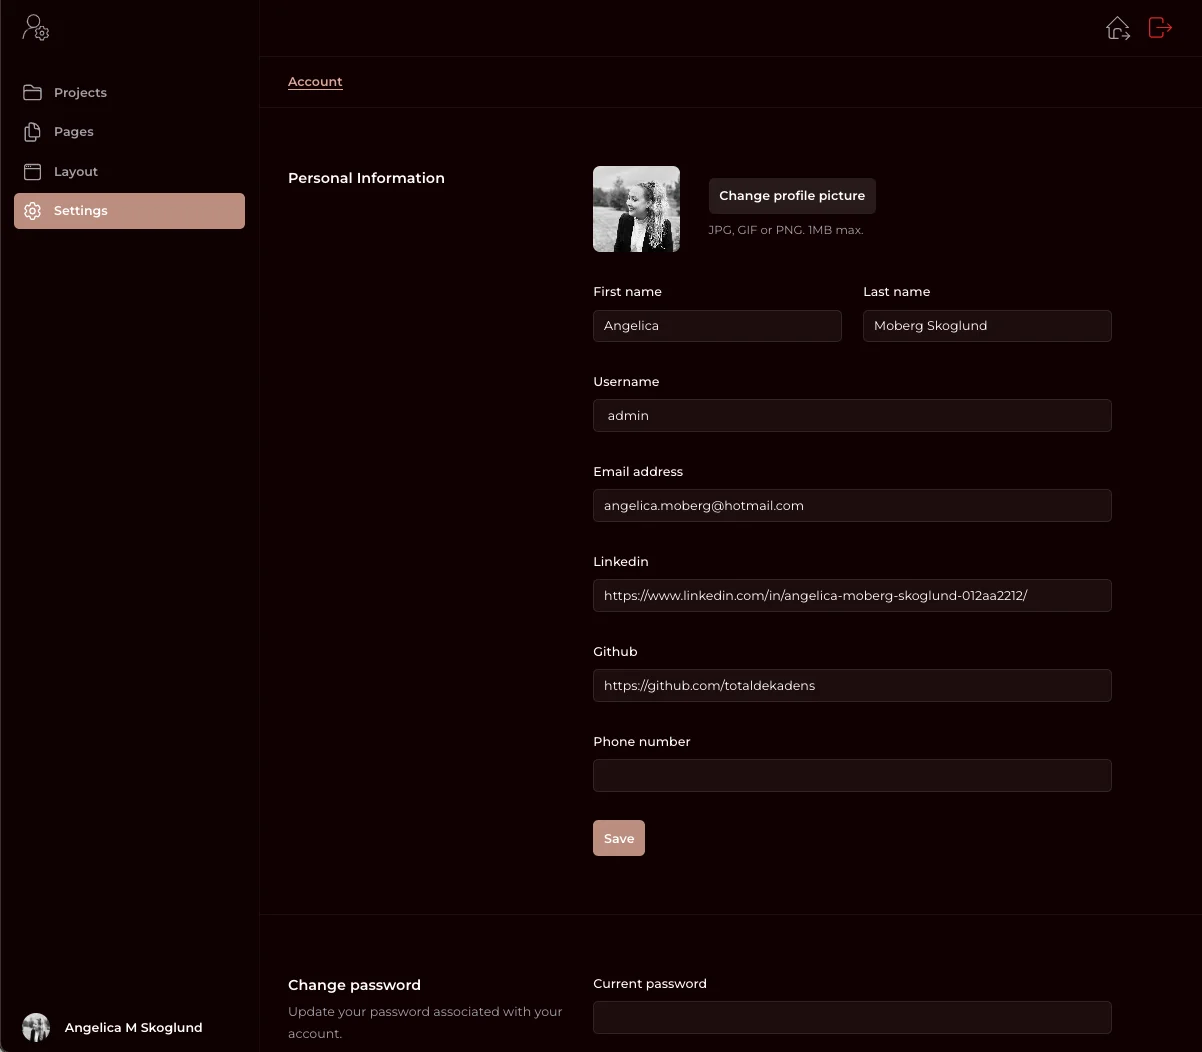
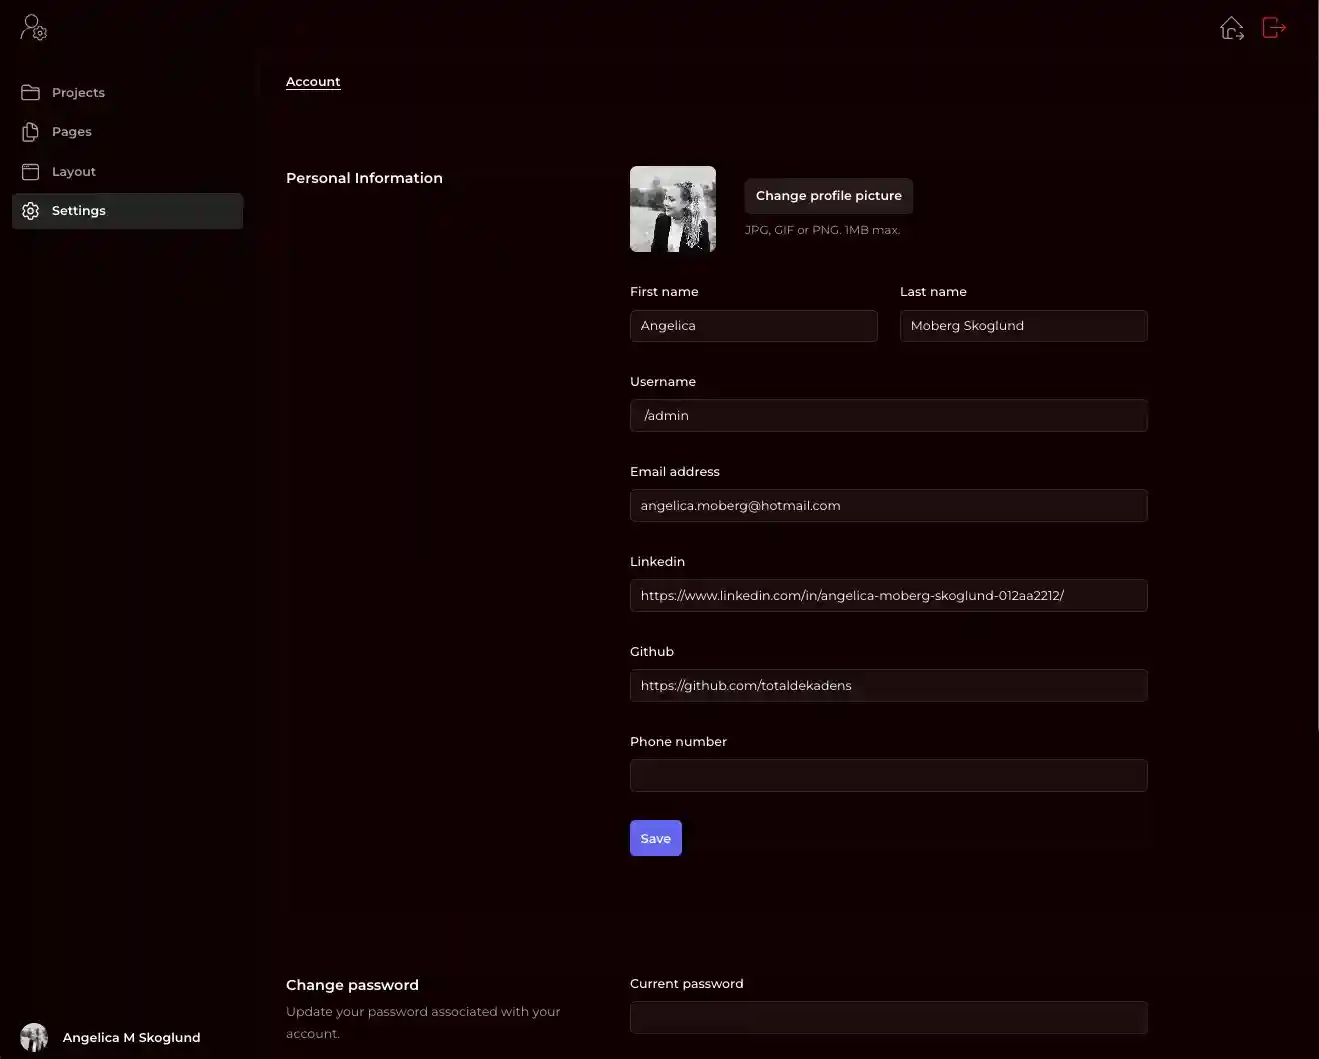
Button fix

diff --git a/src/components/Admin/Settings/Account.tsx b/src/components/Admin/Settings/Account.tsx
@@ -1,4 +1,6 @@
 import { useSession } from 'next-auth/react'
+import React from 'react'
+import Button from '@/components/Buttons/Button'
 
 const Account = () => {
   const { data: session } = useSession()
@@ -25,12 +27,7 @@ const Account = () => {
                 className="h-24 w-24 flex-none rounded-lg bg-gray-800 object-cover"
               />
               <div>
-                <button
-                  type="button"
-                  className="bg-light-300/60 dark:text-light-50 text-dark-100 hover:bg-light-300/80 rounded-md px-3 py-2 text-sm font-semibold shadow-sm dark:bg-white/10 dark:hover:bg-white/20 "
-                >
-                  Change profile picture
-                </button>
+                <Button variant="modest" title="Change profile picture" />
                 <p className="mt-2 text-xs leading-5 text-gray-400">
                   JPG, GIF or PNG. 1MB max.
                 </p>
@@ -171,12 +168,7 @@ const Account = () => {
           </div>
 
           <div className="mt-8 flex">
-            <button
-              type="submit"
-              className="bg-light-400 dark:text-light-50 text-light-50 hover:bg-light-400/60 focus-visible:outline-dark-50 rounded-md px-3 py-2 text-sm font-semibold shadow-sm focus-visible:outline focus-visible:outline-2 focus-visible:outline-offset-2"
-            >
-              Save
-            </button>
+            <Button variant="positive" title="Save" type="submit" />
           </div>
         </form>
       </div>
@@ -249,12 +241,7 @@ const Account = () => {
           </div>
 
           <div className="mt-8 flex">
-            <button
-              type="submit"
-              className="bg-light-400 dark:text-light-50 text-light-50 hover:bg-light-400/60 focus-visible:outline-dark-50 rounded-md px-3 py-2 text-sm font-semibold shadow-sm focus-visible:outline focus-visible:outline-2 focus-visible:outline-offset-2"
-            >
-              Save
-            </button>
+            <Button variant="positive" title="Save" type="submit" />
           </div>
         </form>
       </div>
@@ -269,14 +256,12 @@ const Account = () => {
             information related to this account will be deleted permanently.
           </p>
         </div>
-
         <form className="flex items-start md:col-span-2">
-          <button
+          <Button
+            variant="danger"
+            title="Yes, delete my account"
             type="submit"
-            className="dark:text-light-50 text-dark-200 rounded-md bg-red-600 px-3 py-2 text-sm font-semibold shadow-sm hover:bg-red-400"
-          >
-            Yes, delete my account
-          </button>
+          />
         </form>
       </div>
     </div>

diff --git a/src/components/Buttons/Button.tsx b/src/components/Buttons/Button.tsx
@@ -1,0 +1,51 @@
+import clsx from 'clsx'
+import Link from 'next/link'
+
+const variantStyle = {
+  danger: ' text-light-50 bg-red-600 hover:bg-red-500',
+  positive:
+    'bg-indigo-600 dark:text-white dark:bg-indigo-500 dark:hover:bg-indigo-400 text-light-50 hover:bg-indigo-500 focus-visible:outline-dark-50 focus-visible:outline focus-visible:outline-2 focus-visible:outline-offset-2',
+  normal:
+    'bg-light-400 dark:text-dark-300 dark:bg-light-100/90 text-light-50 hover:bg-light-400/60 focus-visible:outline-dark-50 focus-visible:outline focus-visible:outline-2 focus-visible:outline-offset-2',
+  modest:
+    'bg-light-300 dark:text-light-50 text-light-50 hover:bg-light-300/80 dark:bg-white/10 dark:hover:bg-white/20',
+}
+
+interface ButtonProps extends React.AnchorHTMLAttributes<HTMLAnchorElement> {
+  variant: 'modest' | 'normal' | 'positive' | 'danger'
+  title: string
+  className?: string
+  href?: string
+}
+
+interface LinkProps extends React.ButtonHTMLAttributes<HTMLButtonElement> {
+  variant: 'modest' | 'normal' | 'positive' | 'danger'
+  title: string
+  className?: string
+  href?: string
+}
+
+const Button = ({
+  variant,
+  className,
+  href,
+  title,
+  ...props
+}: ButtonProps & LinkProps) => {
+  className = clsx(
+    'rounded-md px-3 py-2 text-sm font-semibold  shadow-sm',
+    variantStyle[variant],
+    className
+  )
+  return href ? (
+    <Link href={href} className={className} {...props}>
+      {title}
+    </Link>
+  ) : (
+    <button className={className} {...props}>
+      {title}
+    </button>
+  )
+}
+
+export default Button

diff --git a/src/pages/signin.tsx b/src/pages/signin.tsx
@@ -5,6 +5,7 @@ import * as Yup from 'yup'
 import { useFormik } from 'formik'
 import { useState, useEffect } from 'react'
 import { useRouter } from 'next/router'
+import Button from '@/components/Buttons/Button'
 
 // Yup schema to validate the form
 const schema = Yup.object().shape({
@@ -137,12 +138,12 @@ export default function SignIn() {
                 </div>
 
                 <div>
-                  <button
+                  <Button
+                    variant="positive"
+                    title="Sign in"
+                    className="flex w-full justify-center"
                     type="submit"
-                    className="bg-light-300 hover:bg-light-400 focus-visible:outline-light-300 flex w-full justify-center rounded-md px-3 py-1.5 text-sm font-semibold leading-6 text-white focus-visible:outline focus-visible:outline-2 focus-visible:outline-offset-2"
-                  >
-                    Sign in
-                  </button>
+                  />
                 </div>
               </form>
             </>

diff --git a/src/components/Admin/LayoutAdmin.tsx b/src/components/Admin/LayoutAdmin.tsx
@@ -198,7 +198,7 @@ export default function LayoutAdmin({
           </div>
 
           <div className="xl:pl-72">
-            {/* Sticky search header */}
+            {/* Sticky header */}
             <div className="bg-light-200 dark:bg-dark-300 sticky top-0 z-40 flex h-16 shrink-0 items-center justify-between gap-x-6 border-b border-white/5 px-4 shadow-sm sm:px-6 lg:px-8 xl:justify-end">
               <button
                 type="button"
@@ -237,7 +237,7 @@ export default function LayoutAdmin({
                               href={'/admin' + item.path}
                               className={
                                 item.current
-                                  ? 'text-light-400 border-b-light-300 dark:text-light-300 border border-x-0 border-t-0'
+                                  ? 'text-light-400 border-b-light-300 dark:border-b-light-100  dark:text-light-100 border border-x-0 border-t-0'
                                   : ''
                               }
                             >
